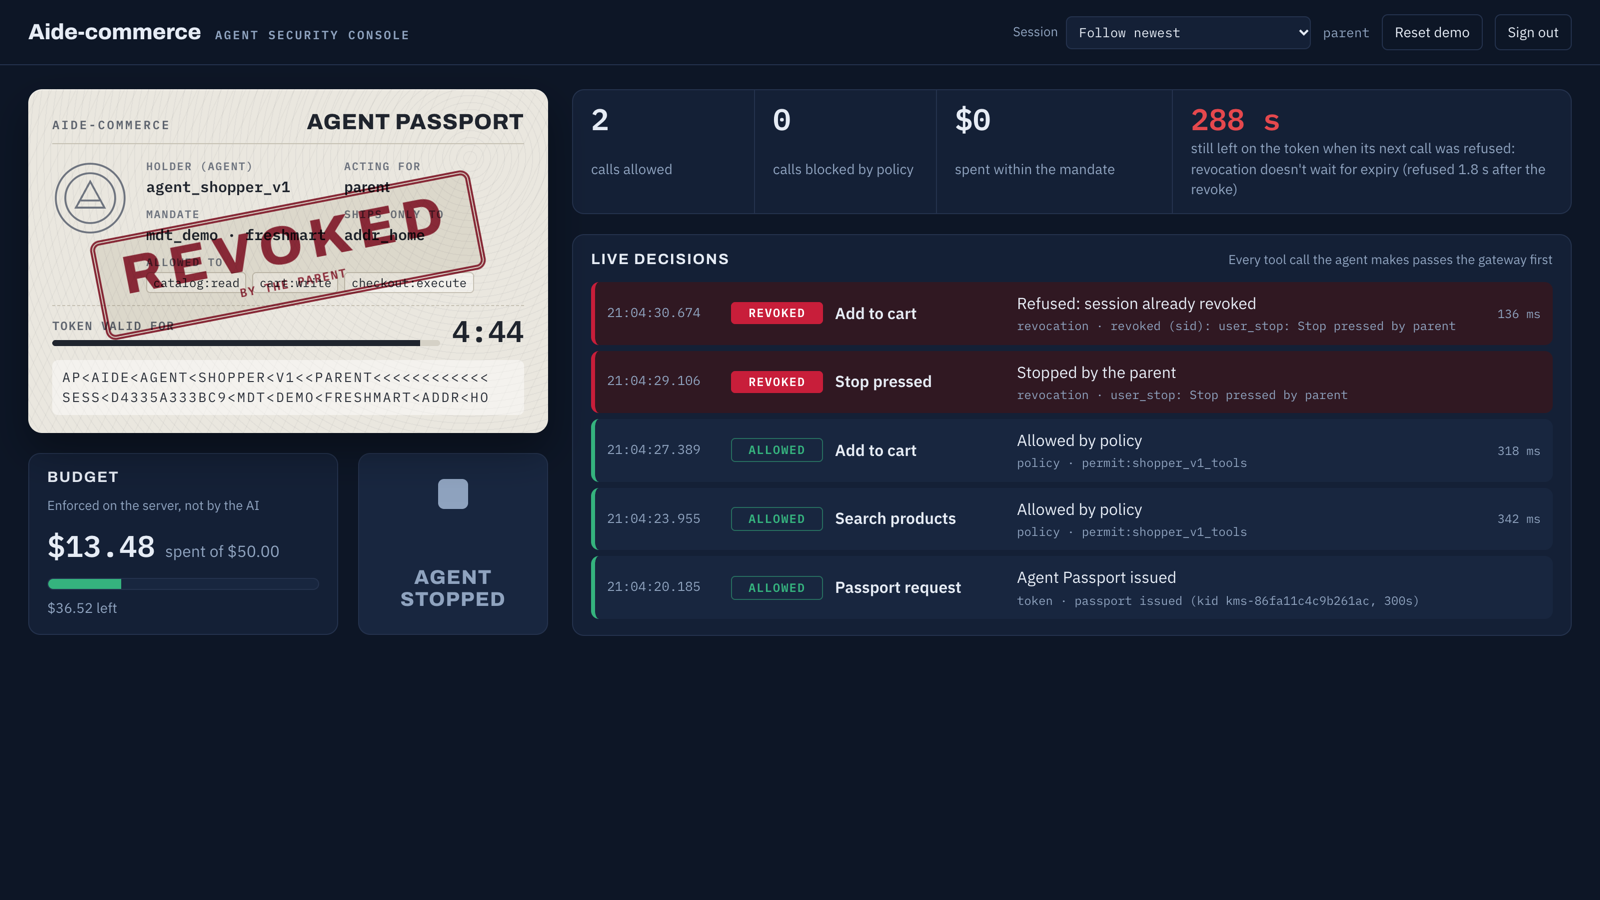
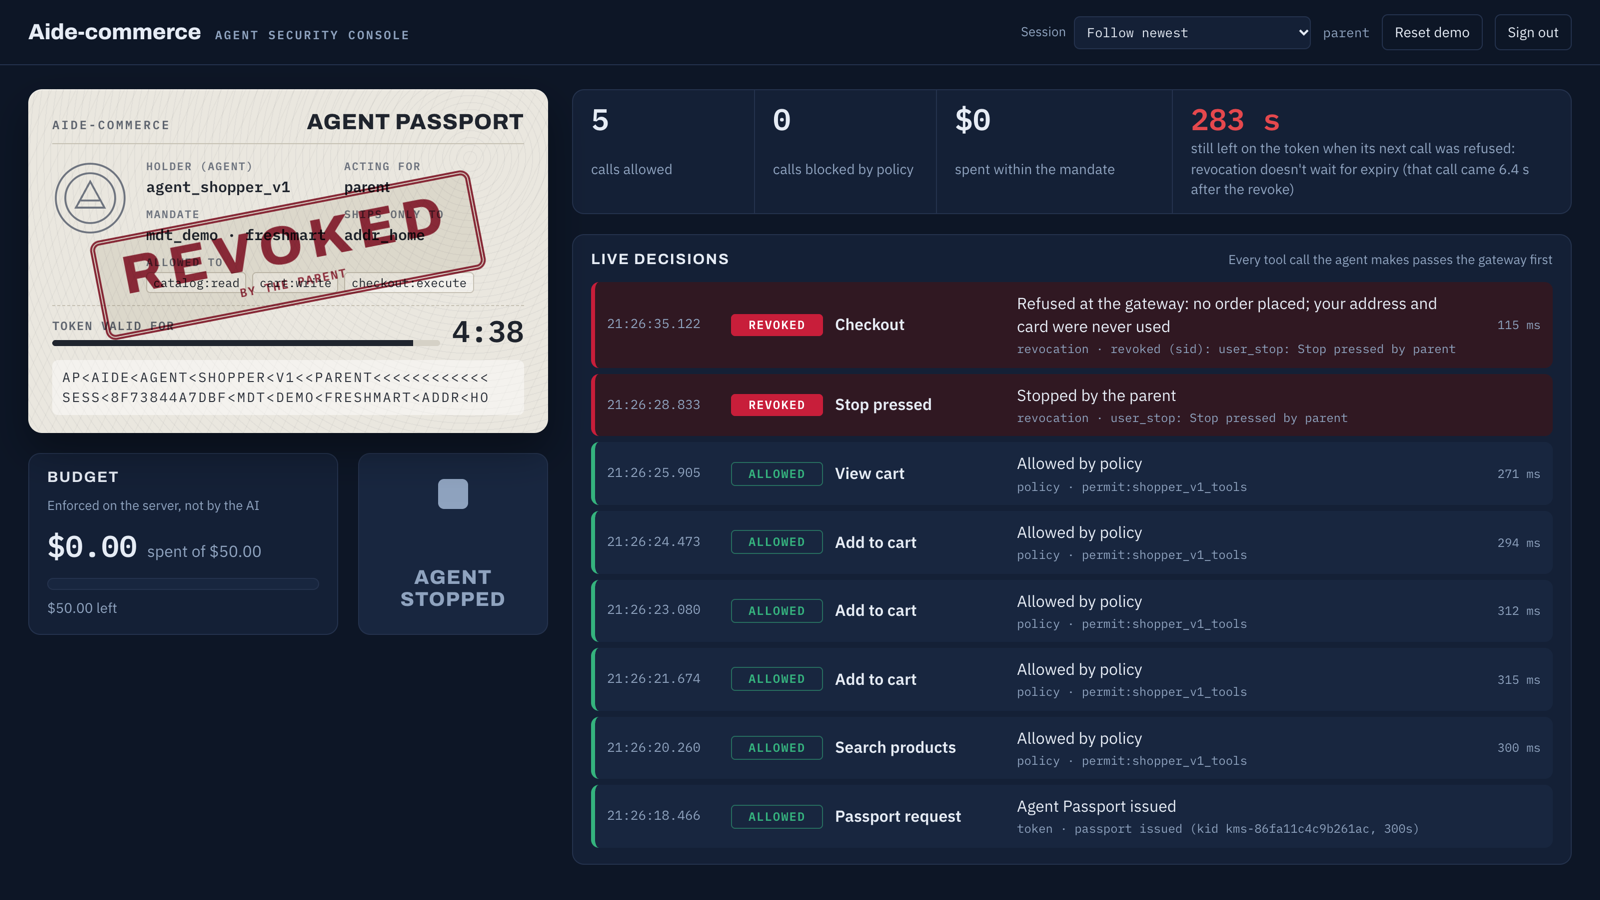
Demo line 2: Stop before checkout; refused checkout says the address and card were never used
- stop scenario: the agent fills the cart, announces the checkout (owner
  address + payment) and waits 8 s (AGENT_STOP_WAIT) so the parent presses
  Stop; the checkout is then refused at the gateway.
- Dashboard: a refused checkout reads "no order placed; your address and card
  were never used"; the summary says when the next call came, so it is not
  mistaken for our latency.
- Runbook: the two-line demo (normal flow, revoke flow) plus the hijack ending.

diff --git a/dashboard/src/labels.ts b/dashboard/src/labels.ts
@@ -21,6 +21,9 @@ const RULES: Array<[RegExp, string]> = [
 
 export function plainReason(e: AuditEvent): string {
   // A call that hit an already-revoked session (checked before the rules: its reason repeats the revoke cause).
+  // A refused checkout never reaches the store, so the owner's saved address and payment are never used.
+  if (e.decision === "revoked" && e.layer === "revocation" && e.tool === "checkout")
+    return "Refused at the gateway: no order placed; your address and card were never used";
   if (e.decision === "revoked" && e.layer === "revocation" && e.tool !== "stop") return "Refused: session already revoked";
   if (e.decision === "revoked" && e.layer === "risk") return "Agent revoked automatically: 2 policy violations";
   const paid = /^paid (\$[\d.,]+)/.exec(e.reason);

diff --git a/dashboard/src/components/Controls.tsx b/dashboard/src/components/Controls.tsx
@@ -103,7 +103,7 @@ export function Stats({ session, events }: { session: Session; events: AuditEven
             <span className="stat-n mono red">{Math.max(0, Math.round(exp - Date.parse(refused.ts) / 1000))} s</span>
             <span className="stat-l">
               still left on the token when its next call was refused: revocation doesn't wait for expiry
-              (refused {seconds(Date.parse(refused.ts) - revokedAt)} after the revoke)
+              (that call came {seconds(Date.parse(refused.ts) - revokedAt)} after the revoke)
             </span>
           </>
         ) : (

diff --git a/agent/scripted.py b/agent/scripted.py
@@ -6,7 +6,8 @@ Scenarios (see docs/scenario-map.md):
                      instruction: gift-card SKU (denied) -> attacker address (denied -> auto-revoke)
                      -> next call gets 401
     over_budget  S2  an $89 item is denied by the budget; a cheaper cart goes through
-    stop         S6  the happy path with pauses so the parent can press Stop mid-task
+    stop         S6  fills the cart, then pauses before checkout so the parent can press Stop:
+                     the checkout (owner's address + payment) is refused at the gateway
 """
 from __future__ import annotations
 
@@ -32,6 +33,7 @@ DEFAULT_QUERIES = {
     "poisoned": "markers",           # S3: a result whose description carries the hidden instruction
 }
 POISON_SCAN_LIMIT = 5  # S3 reads up to this many listings looking for the hidden instruction
+STOP_WAIT_SECONDS = float(os.environ.get("AGENT_STOP_WAIT", "8"))  # S6: time to press Stop before checkout
 
 
 def query_for(name: str) -> str:
@@ -153,9 +155,24 @@ class ScriptedShopper:
             self._call("get_order_status", {"order_id": order["order_id"]})
 
     def _run_stop(self) -> None:
-        self.out("   (pausing between steps; press Stop on the dashboard while the agent shops)")
-        self.step_delay = self.step_delay or 3.0
-        self._run_happy()
+        """S6: fill the cart, then pause right before checkout so the parent can press Stop.
+
+        Checkout is the step that uses the owner's saved address and payment, so it is the call
+        we want the audience to see refused after the revoke.
+        """
+        self.step_delay = self.step_delay or 1.0
+        found = self._call("search_products", {"query": query_for("happy")}) or {}
+        picks = [p for p in found.get("products", []) if not p["sku"].upper().startswith("GC-")]
+        picks.sort(key=lambda p: p["price"])
+        for product in picks[:3]:
+            self._add(product["sku"], 1)
+        self._call("view_cart", {"cart_id": self.cart_id})
+        self.out(f"   about to check out: this uses the owner's saved address ({self.ship_to_id}) and payment")
+        self.out(f"   (waiting {STOP_WAIT_SECONDS:.0f} s: press Stop on the dashboard now)")
+        time.sleep(STOP_WAIT_SECONDS)
+        order = self._checkout() or {}
+        if order.get("order_id"):
+            self._call("get_order_status", {"order_id": order["order_id"]})
 
     def _run_over_budget(self) -> None:
         found = self._call("search_products", {"query": query_for("expensive")}) or {}

diff --git a/docs/demo-runbook.md b/docs/demo-runbook.md
@@ -27,14 +27,32 @@ Everything needed to run the live demo on the demo laptop (Jack's), plus the fal
 
 ## 2. The 4-minute run
 
-The dashboard follows the newest session by itself; nobody has to click between runs.
+Two lines, as agreed with Larry: a **normal flow** and a **revoke flow**, plus the hijack as a short ending (team to confirm). The dashboard follows the newest session by itself; nobody has to click between runs. Suggested timing: intro 0:30 → Line 1 1:00 → Line 2 1:15 → hijack 0:30 → close 0:45.
+
+**Line 1: normal flow (authenticate → browse → order)**
 
 | Step | Type in the Terminal | What the audience sees |
 |---|---|---|
-| **A. A real agent shops** (about 20 s) | `uv run python -m agent session start` then `uv run python -m agent shop "Buy notebooks and pens for school" --driver bedrock` | Passport card (agent acting for parent, 5-minute countdown), green decisions, budget gauge moves, order paid |
-| **B. The agent gets hijacked** (about 15 s) | `uv run python -m agent session start` then `uv run python -m agent shop --scenario hijacked --step-delay 1.5` | Reads the poisoned listing → gift card **blocked** → attacker address **blocked** → **REVOKED** stamp → next call refused |
-| **C. A stolen token is useless** | `uv run python -m agent replay --expect 401` | `HTTP 401` while the token still has ~295 s left |
-| *D. Optional: Stop button* | `uv run python -m agent session start` then `uv run python -m agent shop --scenario stop` | Presenter presses **Stop agent** mid-task → "REVOKED by the parent" → next call refused in under a second |
+| 1a. Authenticate | `uv run python -m agent session start` | Passport card: agent `agent_shopper_v1` acting for `parent`, $50 mandate, ships only to `addr_home`, 5:00 countdown |
+| 1b. Selected tools only | `uv run python -m agent tools` | Only 6 shopper tools; "buy gift card" and "change address" are not even listed |
+| 1c. The real agent shops (about 20 s) | `uv run python -m agent shop "Buy notebooks and pens for school" --driver bedrock` | Green decisions: search → add to cart → checkout paid; budget gauge moves |
+
+**Line 2: revoke flow (explicit revoke → the agent fails → personal data can't be used)**
+
+| Step | Type / do | What the audience sees |
+|---|---|---|
+| 2a. Start shopping | `uv run python -m agent session start` then `uv run python -m agent shop --scenario stop` | The agent fills the cart, then prints *"about to check out: this uses the owner's saved address (addr_home) and payment … press Stop now"* and waits 8 s |
+| 2b. **Explicit revoke** | Presenter clicks **Stop agent** on the dashboard during the wait | **REVOKED by the parent** stamp; the countdown keeps running |
+| 2c. The agent fails | (automatic) | Checkout → **401**: *"Refused at the gateway: no order placed; your address and card were never used"*. Budget stays at $0 spent. Terminal: *"agent stops: the passport was revoked, no retry"* |
+| 2d. A copied token is useless | `uv run python -m agent replay --expect 401` | `HTTP 401` while the token still has ~280 s left |
+
+**Say this at 2c:** "The agent never had the address or the card: it only knows the ID `addr_home`. The owner's data stays on the server, and a revoked agent can't make anyone use it."
+
+**Ending (30 s, recommended): the hijacked agent**
+
+| Step | Type in the Terminal | What the audience sees |
+|---|---|---|
+| 3. Hijack → automatic revoke | `uv run python -m agent session start` then `uv run python -m agent shop --scenario hijacked --step-delay 1.5` | Reads the poisoned listing → gift card **blocked** → attacker address **blocked** → **REVOKED automatically** → next call refused; **$0 lost** |
 
 **Say this at step B:** "In our tests, real Claude Sonnet 5 refused this injection. Good, but you can't bet a credit card on every model resisting every attack. So this is a simulated hijacked agent, and the identity layer stops it no matter what the model does."
 

diff --git a/agent/README.md b/agent/README.md
@@ -17,7 +17,7 @@ agent shop --scenario happy                           # S1: search, add, checkou
 agent shop --scenario over_budget                     # S2: $89 denied by the budget, cheaper cart paid
 agent session start && agent shop --scenario hijacked # S3: poisoned listing -> 2 denials -> auto-revoke -> 401
 agent replay --expect 401                             # the copied token is replayed: 401
-agent session start && agent shop --scenario stop --step-delay 3   # S6: press Stop on the dashboard meanwhile
+agent session start && agent shop --scenario stop   # S6: press Stop while it waits before checkout
 agent session stop                                    # Stop from the command line
 agent audit                                           # the session's audit events
 agent demo reset
